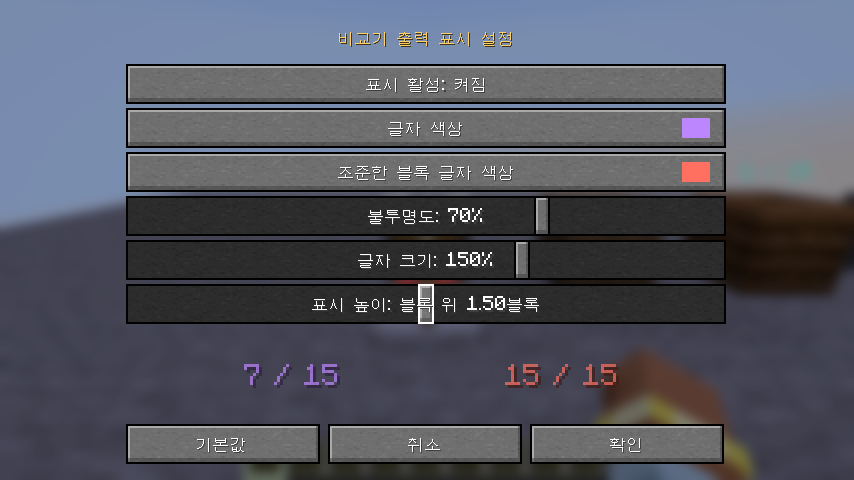
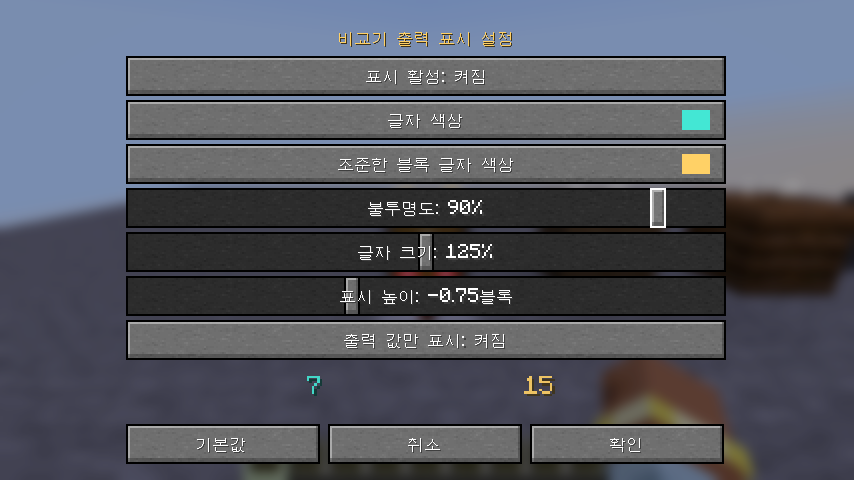
Add negative comparator height and value-only displays in 0.7.0

Changed region(s): [[0.1218, 0.0938, 0.8525, 0.8438]]

diff --git a/src/gametest/java/io/github/ruok0214/comparatorinspector/InspectorGameTest.java b/src/gametest/java/io/github/ruok0214/comparatorinspector/InspectorGameTest.java
@@ -69,7 +69,7 @@ public final class InspectorGameTest implements FabricClientGameTest {
             check(!migrated.targeted() && migrated.nearby() && !migrated.comparators() && migrated.radius()==17 && migrated.world().equals(DisplayStyle.WORLD) && migrated.hud().equals(DisplayStyle.HUD),"Legacy settings retain detection and receive display defaults with comparator output off");
             var previous=InspectorConfig.fromJson("{\"world\":{\"enabled\":false,\"color\":444,\"secondaryColor\":555,\"opacity\":65,\"scalePercent\":125}}");
             check(previous.world().heightHundredths()==18 && !previous.world().enabled() && previous.world().color()==444 && previous.world().opacity()==65 && previous.world().scalePercent()==125,"0.2 appearance keeps its values and gets original label height");
-            check(DisplayStyle.WORLD.height(-1).height()==0 && DisplayStyle.WORLD.height(400).height()==3,"Height clamps to supported range");
+            check(InspectorConfig.DEFAULT.appearance(DisplayTarget.WORLD,DisplayStyle.WORLD.height(-1)).world().height()==0 && DisplayStyle.WORLD.height(400).height()==3,"General block height clamps to supported range");
         });
         menu(c);
         c.clickScreenButton(InspectorClient.tr("nearby",net.minecraft.network.chat.Component.translatable("options.off")).getString());
@@ -181,7 +181,7 @@ public final class InspectorGameTest implements FabricClientGameTest {
         var point=c.computeOnClient(mc -> {
             var slider=mc.gui.screen().children().stream().filter(AppearanceScreen.HeightSlider.class::isInstance)
                     .map(AppearanceScreen.HeightSlider.class::cast).findFirst().orElseThrow();
-            return new double[]{(slider.getX()+slider.getWidth()/2.0)*mc.getWindow().getScreenWidth()/mc.gui.screen().width,
+            return new double[]{(slider.getX()+4+.75*(slider.getWidth()-8))*mc.getWindow().getScreenWidth()/mc.gui.screen().width,
                     (slider.getY()+10.0)*mc.getWindow().getScreenHeight()/mc.gui.screen().height};
         });
         c.getInput().setCursorPos(point[0],point[1]); c.getInput().pressMouse(GLFW.GLFW_MOUSE_BUTTON_LEFT); c.waitTick();
@@ -249,6 +249,73 @@ public final class InspectorGameTest implements FabricClientGameTest {
         c.runOnClient(mc -> check(InspectorClient.extractLabels().isEmpty() && InspectorClient.hudDisplay()!=null,"Comparator info panel works with its above-block display hidden"));
         c.runOnClient(mc -> { InspectorConfig.DEFAULT.save(); InspectorClient.configure(InspectorConfig.DEFAULT); });
         aim(c,CHEST); value(c,CHEST,15);
+    }
+    private static void negativeHeightAndValueOnly(ClientGameTestContext c) {
+        var pos=CHEST.south();
+        c.runOnClient(mc -> {
+            var legacy=InspectorConfig.fromJson("{\"world\":{\"heightHundredths\":75},\"comparatorStyle\":{\"heightHundredths\":125}}");
+            check(legacy.world().heightHundredths()==75 && legacy.comparatorStyle().heightHundredths()==125
+                    && !legacy.world().valueOnly() && !legacy.comparatorStyle().valueOnly() && !legacy.hud().valueOnly(),"Existing settings keep their height and fraction format");
+            var bounds=InspectorConfig.fromJson("{\"world\":{\"heightHundredths\":-100},\"comparatorStyle\":{\"heightHundredths\":-400,\"valueOnly\":true}}");
+            check(bounds.world().heightHundredths()==0 && bounds.comparatorStyle().heightHundredths()==-300 && bounds.comparatorStyle().valueOnly(),"Negative heights are limited to comparators and clamp at -3");
+        });
+        var initial=InspectorConfig.DEFAULT.comparatorOutputs(true).detection(true,true,8);
+        c.runOnClient(mc -> { check(initial.save(),"Save fraction format defaults"); InspectorClient.configure(initial); });
+        aim(c,CHEST); value(c,pos,15);
+        menu(c); c.clickScreenButton("comparator_inspector.comparator.title");
+        c.getInput().resizeWindow(854,480); c.waitTicks(3);
+        var point=c.computeOnClient(mc -> {
+            var slider=mc.gui.screen().children().stream().filter(AppearanceScreen.HeightSlider.class::isInstance)
+                    .map(AppearanceScreen.HeightSlider.class::cast).findFirst().orElseThrow();
+            return new double[]{(slider.getX()+4+.375*(slider.getWidth()-8))*mc.getWindow().getScreenWidth()/mc.gui.screen().width,
+                    (slider.getY()+10.0)*mc.getWindow().getScreenHeight()/mc.gui.screen().height};
+        });
+        c.getInput().setCursorPos(point[0],point[1]); c.getInput().pressMouse(GLFW.GLFW_MOUSE_BUTTON_LEFT); c.waitTick();
+        int selectedHeight=c.computeOnClient(mc -> ((AppearanceScreen)mc.gui.screen()).draft().heightHundredths());
+        check(selectedHeight>=-77 && selectedHeight<=-73,"Comparator slider selects a negative offset near -0.75");
+        c.clickScreenButton(InspectorClient.tr("appearance.value_only",net.minecraft.network.chat.Component.translatable("options.off")).getString());
+        color(c,"color.primary","#43E7D4","#FFFFFF"); styleSlider(c,true,.5); styleSlider(c,false,.9);
+        c.runOnClient(mc -> check(((AppearanceScreen)mc.gui.screen()).draft().heightHundredths()==selectedHeight && ((AppearanceScreen)mc.gui.screen()).draft().valueOnly(),"Color and size changes preserve negative height and value-only format"));
+        c.getInput().setCursorPos(20,20); c.takeScreenshot("negative-height-value-only-settings-ko");
+        c.clickScreenButton("comparator_inspector.confirm"); c.clickScreenButton("gui.cancel");
+        c.getInput().resizeWindow(1000,700); c.waitTicks(3); value(c,CHEST,15); value(c,pos,15);
+        var saved=c.computeOnClient(mc -> InspectorClient.config());
+        c.runOnClient(mc -> {
+            check(InspectorConfig.load().equals(saved) && saved.comparatorStyle().heightHundredths()==selectedHeight && saved.comparatorStyle().valueOnly(),"Negative height and value-only format save immediately and survive parent Cancel");
+            checkLabel(pos,saved.comparatorStyle(),false);
+            check(label(pos).text().equals("15") && label(CHEST).text().equals("15 / 15") && InspectorClient.hudDisplay().text().getString().contains("15 / 15"),"Comparator numeric format is independent of general blocks and info panel");
+        });
+        c.takeScreenshot("lowered-comparator-value-only-ko");
+        menu(c); c.clickScreenButton("comparator_inspector.world.title");
+        c.clickScreenButton(InspectorClient.tr("appearance.value_only",net.minecraft.network.chat.Component.translatable("options.off")).getString());
+        c.clickScreenButton("comparator_inspector.confirm"); c.clickScreenButton("gui.cancel");
+        value(c,CHEST,15); value(c,BARREL,0);
+        c.runOnClient(mc -> check(label(CHEST).text().equals("15") && label(BARREL).text().equals("0") && InspectorClient.config().comparatorStyle().equals(saved.comparatorStyle()),"General block format handles full and zero values without changing comparator settings"));
+        menu(c); c.clickScreenButton("comparator_inspector.hud.title");
+        c.clickScreenButton(InspectorClient.tr("appearance.value_only",net.minecraft.network.chat.Component.translatable("options.off")).getString());
+        c.getInput().resizeWindow(854,480); c.getInput().setCursorPos(20,20); c.waitTicks(3); c.takeScreenshot("value-only-hud-settings-small-ko");
+        c.clickScreenButton("comparator_inspector.confirm"); c.clickScreenButton("gui.cancel");
+        value(c,CHEST,15);
+        c.runOnClient(mc -> check(InspectorClient.hudDisplay().text().getString().endsWith(" · 15"),"Info panel keeps the block name and displays only the output value"));
+        menu(c); c.clickScreenButton("comparator_inspector.comparator.title"); c.clickScreenButton("comparator_inspector.reset");
+        c.getInput().pressKey(GLFW.GLFW_KEY_ESCAPE); c.clickScreenButton("gui.cancel");
+        c.runOnClient(mc -> check(InspectorConfig.load().comparatorStyle().equals(saved.comparatorStyle()),"Cancel preserves negative height and numeric format"));
+        var allNumeric=c.computeOnClient(mc -> InspectorClient.config());
+        for (int height:new int[]{-300,0,300}) {
+            c.runOnClient(mc -> InspectorClient.configure(allNumeric.appearance(DisplayTarget.COMPARATOR,saved.comparatorStyle().height(height))));
+            value(c,pos,15);
+            c.runOnClient(mc -> { checkLabel(pos,saved.comparatorStyle().height(height),false); check(label(pos).text().equals("15"),"Value-only format survives height edits"); });
+        }
+        c.runOnClient(mc -> InspectorClient.configure(allNumeric));
+        menu(c); c.clickScreenButton("comparator_inspector.comparator.title"); c.clickScreenButton("comparator_inspector.reset");
+        c.clickScreenButton("comparator_inspector.confirm"); c.clickScreenButton("gui.cancel");
+        value(c,pos,15);
+        c.runOnClient(mc -> {
+            check(InspectorConfig.load().comparatorStyle().equals(DisplayStyle.COMPARATOR) && label(pos).text().equals("15 / 15"),"Comparator defaults restore height and fraction format");
+            check(InspectorClient.config().world().valueOnly() && InspectorClient.config().hud().valueOnly(),"Comparator defaults preserve other display formats");
+            InspectorConfig.DEFAULT.save(); InspectorClient.configure(InspectorConfig.DEFAULT);
+        });
+        c.getInput().resizeWindow(1000,700); value(c,CHEST,15);
     }
     @Override public void runTest(ClientGameTestContext c) {
         c.getInput().resizeWindow(1000,700);
@@ -385,6 +452,7 @@ public final class InspectorGameTest implements FabricClientGameTest {
             aim(c,CHEST); value(c,CHEST,15);
             appearances(c);
             comparatorAppearances(c);
+            negativeHeightAndValueOnly(c);
             // Covering the chest changes the actual vanilla comparator value.
             world.getServer().runCommand("setblock 0 82 0 minecraft:stone"); value(c,CHEST,0);
             world.getServer().runCommand("setblock 0 82 0 minecraft:air"); value(c,CHEST,15);

diff --git a/src/client/java/io/github/ruok0214/comparatorinspector/client/AppearanceScreen.java b/src/client/java/io/github/ruok0214/comparatorinspector/client/AppearanceScreen.java
@@ -17,8 +17,8 @@ public final class AppearanceScreen extends Screen {
         draft=parent.draft().style(target);
     }
     public DisplayStyle draft() { return draft; }
-    private int top() { return world ? Math.max(32,height/2-90) : Math.max(38,height/2-80); }
-    private int rowStep() { return world ? 22 : 25; }
+    private int top() { return world ? Math.max(28,height/2-98) : Math.max(32,height/2-90); }
+    private int rowStep() { return 22; }
     @Override protected void init() {
         int w=Math.min(300,width-24), x=(width-w)/2, y=top(), step=rowStep();
         addRenderableWidget(Button.builder(enabledLabel(),b -> { draft=draft.enabled(!draft.enabled()); b.setMessage(enabledLabel()); }).bounds(x,y,w,20).build());
@@ -27,6 +27,8 @@ public final class AppearanceScreen extends Screen {
         addRenderableWidget(new StyleSlider(x,y+step*3,w,false));
         addRenderableWidget(new StyleSlider(x,y+step*4,w,true));
         if(world) addRenderableWidget(new HeightSlider(x,y+step*5,w));
+        addRenderableWidget(Button.builder(valueOnlyLabel(),b -> { draft=draft.valueOnly(!draft.valueOnly()); b.setMessage(valueOnlyLabel()); })
+                .bounds(x,y+step*(world ? 6 : 5),w,20).tooltip(Tooltip.create(tr("appearance.value_only_hint"))).build());
         int bw=(w-8)/3;
         addRenderableWidget(Button.builder(tr("reset"),b -> { draft=target.defaults(); rebuildWidgets(); }).bounds(x,height-28,bw,20).build());
         addRenderableWidget(Button.builder(Component.translatable("gui.cancel"),b -> onClose()).bounds(x+bw+4,height-28,bw,20).build());
@@ -36,19 +38,21 @@ public final class AppearanceScreen extends Screen {
     }
     public final class HeightSlider extends AbstractSliderButton {
         HeightSlider(int x,int y,int w) {
-            super(x,y,w,20,Component.empty(),draft.heightHundredths()/(double)DisplayStyle.MAX_HEIGHT);
-            setTooltip(Tooltip.create(tr("appearance.height_hint"))); updateMessage();
+            super(x,y,w,20,Component.empty(),(draft.heightHundredths()-target.minHeight())/(double)(DisplayStyle.MAX_HEIGHT-target.minHeight()));
+            setTooltip(Tooltip.create(tr(target == DisplayTarget.COMPARATOR ? "appearance.comparator_height_hint" : "appearance.height_hint"))); updateMessage();
         }
+        private int selectedHeight() { return target.minHeight()+(int)Math.round(value*(DisplayStyle.MAX_HEIGHT-target.minHeight())); }
         @Override protected void updateMessage() {
-            setMessage(tr("appearance.height",String.format(java.util.Locale.ROOT,"%.2f",Math.round(value*DisplayStyle.MAX_HEIGHT)/100.0)));
+            setMessage(tr("appearance.height",String.format(java.util.Locale.ROOT,"%.2f",selectedHeight()/100.0)));
         }
-        @Override protected void applyValue() { draft=draft.height((int)Math.round(value*DisplayStyle.MAX_HEIGHT)); }
+        @Override protected void applyValue() { draft=draft.height(selectedHeight()); }
     }
     private Component enabledLabel() { return tr("appearance.enabled", Component.translatable(draft.enabled() ? "options.on" : "options.off")); }
+    private Component valueOnlyLabel() { return tr("appearance.value_only", Component.translatable(draft.valueOnly() ? "options.on" : "options.off")); }
     private void color(boolean secondary) {
         var defaults=target.defaults();
         minecraft.gui.setScreen(new ColorScreen(this,secondary ? draft.secondaryColor() : draft.color(),
-                secondary ? defaults.secondaryColor() : defaults.color(),value ->
+                secondary ? defaults.secondaryColor() : defaults.color(),draft.outputText(7),value ->
                 draft=secondary ? draft.colors(draft.color(),value) : draft.colors(value,draft.secondaryColor())));
     }
     public final class StyleSlider extends AbstractSliderButton {
@@ -62,7 +66,7 @@ public final class AppearanceScreen extends Screen {
     }
     @Override public void extractRenderState(GuiGraphicsExtractor g,int mx,int my,float dt) {
         super.extractRenderState(g,mx,my,dt); g.centeredText(font,title,width/2,15,0xFFFFD166);
-        int w=Math.min(300,width-24), x=(width-w)/2, y=top(), step=rowStep(), previewY=y+(world ? 150 : 140);
+        int w=Math.min(300,width-24), x=(width-w)/2, y=top(), step=rowStep(), previewY=y+(world ? 160 : 144);
         g.fill(x+w-22,y+step+5,x+w-8,y+step+15,0xFF000000|draft.color());
         g.fill(x+w-22,y+step*2+5,x+w-8,y+step*2+15,0xFF000000|draft.secondaryColor());
         if (failed) g.centeredText(font,tr("save_failed"),width/2,previewY,0xFFFF8070);
@@ -70,10 +74,10 @@ public final class AppearanceScreen extends Screen {
         else {
             g.pose().pushMatrix(); g.pose().translate(width/2f,previewY); g.pose().scale(draft.scale(),draft.scale());
             if(world) {
-                g.centeredText(font,Component.literal("7 / 15"),-45,0,draft.argb(false));
-                g.centeredText(font,Component.literal("15 / 15"),45,0,draft.argb(true));
+                g.centeredText(font,Component.literal(draft.outputText(7)),-45,0,draft.argb(false));
+                g.centeredText(font,Component.literal(draft.outputText(15)),45,0,draft.argb(true));
             } else {
-                var text=tr("signal",7); int tw=font.width(text);
+                var text=draft.valueOnly() ? Component.literal("7") : tr("signal",7); int tw=font.width(text);
                 g.fill(-tw/2-6,-4,tw/2+6,13,draft.backgroundArgb());
                 g.centeredText(font,text,0,0,draft.argb(false));
             }

diff --git a/src/client/java/io/github/ruok0214/comparatorinspector/client/DisplayStyle.java b/src/client/java/io/github/ruok0214/comparatorinspector/client/DisplayStyle.java
@@ -1,8 +1,9 @@
 package io.github.ruok0214.comparatorinspector.client;
 
 /** Independent appearance for one display surface. Colors are RGB, opacity is percent. */
-public record DisplayStyle(boolean enabled, int color, int secondaryColor, int opacity, int scalePercent, int heightHundredths) {
+public record DisplayStyle(boolean enabled, int color, int secondaryColor, int opacity, int scalePercent, int heightHundredths, boolean valueOnly) {
     public static final int DEFAULT_HEIGHT = 18;
+    public static final int MIN_HEIGHT = -300;
     public static final int MAX_HEIGHT = 300;
     public static final DisplayStyle WORLD = new DisplayStyle(true, 0xFFFFFF, 0xFFD166, 100, 100);
     public static final DisplayStyle COMPARATOR = new DisplayStyle(true, 0xFFFFFF, 0xFFD166, 100, 100);
@@ -10,7 +11,10 @@ public record DisplayStyle(boolean enabled, int color, int secondaryColor, int o
     public DisplayStyle {
         color &= 0xFFFFFF; secondaryColor &= 0xFFFFFF;
         opacity = Math.clamp(opacity, 0, 100); scalePercent = Math.clamp(scalePercent, 50, 200);
-        heightHundredths = Math.clamp(heightHundredths, 0, MAX_HEIGHT);
+        heightHundredths = Math.clamp(heightHundredths, MIN_HEIGHT, MAX_HEIGHT);
+    }
+    public DisplayStyle(boolean enabled, int color, int secondaryColor, int opacity, int scalePercent, int heightHundredths) {
+        this(enabled,color,secondaryColor,opacity,scalePercent,heightHundredths,false);
     }
     public DisplayStyle(boolean enabled, int color, int secondaryColor, int opacity, int scalePercent) {
         this(enabled,color,secondaryColor,opacity,scalePercent,DEFAULT_HEIGHT);
@@ -21,9 +25,11 @@ public record DisplayStyle(boolean enabled, int color, int secondaryColor, int o
     public int backgroundArgb() { return (Math.round(opacity * 2.04f) << 24) | secondaryColor; }
     public float scale() { return scalePercent / 100f; }
     public boolean visible() { return enabled && opacity > 0; }
-    public DisplayStyle enabled(boolean value) { return new DisplayStyle(value,color,secondaryColor,opacity,scalePercent,heightHundredths); }
-    public DisplayStyle colors(int primary, int secondary) { return new DisplayStyle(enabled,primary,secondary,opacity,scalePercent,heightHundredths); }
-    public DisplayStyle opacity(int value) { return new DisplayStyle(enabled,color,secondaryColor,value,scalePercent,heightHundredths); }
-    public DisplayStyle size(int value) { return new DisplayStyle(enabled,color,secondaryColor,opacity,value,heightHundredths); }
-    public DisplayStyle height(int value) { return new DisplayStyle(enabled,color,secondaryColor,opacity,scalePercent,value); }
+    public String outputText(int value) { return valueOnly ? Integer.toString(value) : value + " / 15"; }
+    public DisplayStyle enabled(boolean value) { return new DisplayStyle(value,color,secondaryColor,opacity,scalePercent,heightHundredths,valueOnly); }
+    public DisplayStyle colors(int primary, int secondary) { return new DisplayStyle(enabled,primary,secondary,opacity,scalePercent,heightHundredths,valueOnly); }
+    public DisplayStyle opacity(int value) { return new DisplayStyle(enabled,color,secondaryColor,value,scalePercent,heightHundredths,valueOnly); }
+    public DisplayStyle size(int value) { return new DisplayStyle(enabled,color,secondaryColor,opacity,value,heightHundredths,valueOnly); }
+    public DisplayStyle height(int value) { return new DisplayStyle(enabled,color,secondaryColor,opacity,scalePercent,value,valueOnly); }
+    public DisplayStyle valueOnly(boolean value) { return new DisplayStyle(enabled,color,secondaryColor,opacity,scalePercent,heightHundredths,value); }
 }

diff --git a/src/client/java/io/github/ruok0214/comparatorinspector/client/InspectorConfig.java b/src/client/java/io/github/ruok0214/comparatorinspector/client/InspectorConfig.java
@@ -12,8 +12,10 @@ public record InspectorConfig(boolean targeted, boolean nearby, int radius, bool
     public InspectorConfig {
         radius = Math.clamp(radius, 1, 32);
         if (world == null) world = DisplayStyle.WORLD;
+        world = DisplayTarget.WORLD.normalize(world);
         if (comparatorStyle == null) comparatorStyle = world;
         if (hud == null) hud = DisplayStyle.HUD;
+        hud = DisplayTarget.HUD.normalize(hud);
     }
     public InspectorConfig(boolean targeted, boolean nearby, int radius) { this(targeted,nearby,radius,false,DisplayStyle.WORLD,DisplayStyle.COMPARATOR,DisplayStyle.HUD); }
     public InspectorConfig detection(boolean targeted, boolean nearby, int radius) { return new InspectorConfig(targeted,nearby,radius,comparators,world,comparatorStyle,hud); }
@@ -29,7 +31,7 @@ public record InspectorConfig(boolean targeted, boolean nearby, int radius, bool
     }
     public static InspectorConfig fromJson(String text) {
         var json = JsonParser.parseString(text).getAsJsonObject();
-        var world = style(json,"world",DisplayStyle.WORLD);
+        var world = DisplayTarget.WORLD.normalize(style(json,"world",DisplayStyle.WORLD));
         return new InspectorConfig(json.has("targeted") ? json.get("targeted").getAsBoolean() : true,
                 json.has("nearby") && json.get("nearby").getAsBoolean(), json.has("radius") ? json.get("radius").getAsInt() : 8,
                 json.has("comparators") && json.get("comparators").getAsBoolean(),
@@ -41,7 +43,8 @@ public record InspectorConfig(boolean targeted, boolean nearby, int radius, bool
         return new DisplayStyle(s.has("enabled") ? s.get("enabled").getAsBoolean() : fallback.enabled(),
                 number(s,"color",fallback.color()),number(s,"secondaryColor",fallback.secondaryColor()),
                 number(s,"opacity",fallback.opacity()),number(s,"scalePercent",fallback.scalePercent()),
-                number(s,"heightHundredths",fallback.heightHundredths()));
+                number(s,"heightHundredths",fallback.heightHundredths()),
+                s.has("valueOnly") ? s.get("valueOnly").getAsBoolean() : fallback.valueOnly());
     }
     private static int number(JsonObject json,String key,int fallback) { return json.has(key) ? json.get(key).getAsInt() : fallback; }
     public static InspectorConfig load() {

diff --git a/src/client/java/io/github/ruok0214/comparatorinspector/client/InspectorClient.java b/src/client/java/io/github/ruok0214/comparatorinspector/client/InspectorClient.java
@@ -132,8 +132,9 @@ public final class InspectorClient implements ClientModInitializer {
         var r = readings.get(pos);
         return r != null && mc.level.hasChunkAt(pos) && r.block().equals(BuiltInRegistries.BLOCK.getKey(mc.level.getBlockState(pos).getBlock())) ? r : null;
     }
-    public static Component signalText(InspectorPayloads.Reading r) {
-        return r.uniform() ? tr("signal", r.north()) : tr("directional", r.north(), r.east(), r.south(), r.west());
+    public static Component signalText(InspectorPayloads.Reading r, DisplayStyle style) {
+        return r.uniform() ? (style.valueOnly() ? Component.literal(Integer.toString(r.north())) : tr("signal", r.north()))
+                : tr("directional", r.north(), r.east(), r.south(), r.west());
     }
     public static List<Label> extractLabels() {
         var mc = Minecraft.getInstance();
@@ -146,7 +147,7 @@ public final class InspectorClient implements ClientModInitializer {
             var state = mc.level.getBlockState(r.pos());
             var style = worldStyle(state);
             if (!style.visible() || (!aimed && (!nearbySupported(state) || r.pos().distToCenterSqr(mc.player.position()) > (double) config.radius()*config.radius()))) continue;
-            String text = r.uniform() ? r.north() + " / 15" : signalText(r).getString();
+            String text = r.uniform() ? style.outputText(r.north()) : signalText(r,style).getString();
             result.add(new Label(Vec3.atLowerCornerWithOffset(r.pos(), .5, 1 + style.height(), .5), text, style.argb(aimed), .32f * style.scale()));
         }
         return List.copyOf(result);
@@ -160,7 +161,7 @@ public final class InspectorClient implements ClientModInitializer {
         else if (target != null) {
             var r = validReading(target);
             text = mc.level.getBlockState(target).getBlock().getName().copy().append(" · ")
-                    .append(r == null ? tr("waiting") : signalText(r));
+                    .append(r == null ? tr("waiting") : signalText(r,config.hud()));
         } else if (nearbyEnabled() && truncated) text = tr("limit", InspectorPayloads.MAX_BLOCKS);
         return text == null ? null : new HudDisplay(text,config.hud().argb(false),config.hud().backgroundArgb(),config.hud().scale());
     }

diff --git a/src/client/java/io/github/ruok0214/comparatorinspector/client/ColorScreen.java b/src/client/java/io/github/ruok0214/comparatorinspector/client/ColorScreen.java
@@ -12,11 +12,12 @@ public final class ColorScreen extends Screen {
     private final Screen parent;
     private final IntConsumer accept;
     private final int defaultColor;
+    private final String sampleText;
     private int rgb;
     private EditBox hex;
     private Button done;
-    public ColorScreen(Screen parent,int rgb,int defaultColor,IntConsumer accept) {
-        super(tr("color.title")); this.parent=parent; this.rgb=rgb; this.defaultColor=defaultColor; this.accept=accept;
+    public ColorScreen(Screen parent,int rgb,int defaultColor,String sampleText,IntConsumer accept) {
+        super(tr("color.title")); this.parent=parent; this.rgb=rgb; this.defaultColor=defaultColor; this.sampleText=sampleText; this.accept=accept;
     }
     @Override protected void init() {
         int w=Math.min(300,width-24),x=(width-w)/2,y=Math.max(38,height/2-80);
@@ -59,7 +60,7 @@ public final class ColorScreen extends Screen {
     @Override public void extractRenderState(GuiGraphicsExtractor g,int mx,int my,float dt) {
         super.extractRenderState(g,mx,my,dt); g.centeredText(font,title,width/2,15,0xFFFFD166);
         int y=Math.max(38,height/2-80)+140;
-        g.centeredText(font,Component.literal(String.format("#%06X   7 / 15",rgb)),width/2,y,0xFF000000|rgb);
+        g.centeredText(font,Component.literal(String.format("#%06X   %s",rgb,sampleText)),width/2,y,0xFF000000|rgb);
         if(!done.active) g.centeredText(font,tr("color.invalid"),width/2,y+14,0xFFFF8070);
     }
     @Override public boolean isPauseScreen() { return false; }

diff --git a/src/client/java/io/github/ruok0214/comparatorinspector/client/DisplayTarget.java b/src/client/java/io/github/ruok0214/comparatorinspector/client/DisplayTarget.java
@@ -15,4 +15,8 @@ public enum DisplayTarget {
     public String titleKey() { return titleKey; }
     public DisplayStyle defaults() { return defaults; }
     public boolean inWorld() { return inWorld; }
+    public int minHeight() { return this == COMPARATOR ? DisplayStyle.MIN_HEIGHT : 0; }
+    public DisplayStyle normalize(DisplayStyle style) {
+        return style.height(Math.clamp(style.heightHundredths(),minHeight(),DisplayStyle.MAX_HEIGHT));
+    }
 }

diff --git a/README.md b/README.md
@@ -16,7 +16,7 @@
 
 - Minecraft Java Edition **26.2**, Java **25 이상**
 - Fabric Loader **0.19.5 이상**, Fabric API **0.160.0+26.2 이상**
-- `comparator-inspector-0.6.0.jar`를 Fabric API와 함께 `mods` 폴더에 넣습니다. 이전 Comparator Inspector JAR는 제거하고 교체하세요.
+- `comparator-inspector-0.7.0.jar`를 Fabric API와 함께 `mods` 폴더에 넣습니다. 이전 Comparator Inspector JAR는 제거하고 교체하세요.
 - 싱글플레이는 게임에 설치하면 됩니다. 멀티플레이는 **서버와 클라이언트 양쪽**에 설치해야 합니다.
 - Mod Menu는 선택 사항입니다. 설치하면 모드 목록의 설정 버튼으로도 설정 창을 열 수 있습니다.
 - Mod Menu 목록에 전용 아이콘과 한국어·영어 요약/설명이 표시됩니다. 기능, 사용법, 서버 설치 조건을 확인하고 소스·이슈·릴리스 페이지로 이동할 수 있습니다.
@@ -56,14 +56,19 @@
 | 추가 색상 | 조준한 블록의 숫자 색 | 조준한 비교기의 숫자 색 | 정보창 배경 색 |
 | 불투명도 | 0~100% | 0~100% | 0~100%, 글자와 배경에 함께 적용 |
 | 글자 크기 | 50~200% | 50~200% | 50~200% |
-| 표시 높이 | 블록 위 0.00~3.00블록 | 비교기 칸 위 0.00~3.00블록 | 해당 없음 |
+| 표시 높이 | 블록 위 0.00~3.00블록 | 비교기 칸 기준 -3.00~3.00블록 | 해당 없음 |
+| 출력 값만 표시 | `15 / 15` 대신 `15` | `15 / 15` 대신 `15` | 이름을 유지하고 출력 부분을 `15`로 표시 |
 
 **표시 높이**는 일반 블록과 비교기 각각의 표시 설정 창에서 조절합니다.
-블록이 차지하는 한 칸의 윗면을 기준으로 0.01블록 단위로 조절하며, 기본값은 기존 위치인 **0.18블록**입니다.
+블록이 차지하는 한 칸의 윗면을 기준으로 소수 둘째 자리까지 표시하며, 기본값은 기존 위치인 **0.18블록**입니다.
+비교기에는 **음수 높이**도 사용할 수 있습니다. 예를 들어 **-0.75**는 한 칸의 윗면보다 0.75블록 아래에 표시합니다.
 같은 종류의 조준 표시와 주변 상시 표시는 같은 높이를 사용합니다. 케이크·비교기 등 낮은 모양의 블록도 한 칸의 윗면을 기준으로 합니다.
 표시 설정 창에서 **확인**을 누르면 높이를 포함한 해당 표시 설정이 즉시 저장됩니다. 상위 창에서 다시 저장하지 않아도 됩니다.
 0.1.0/0.2.0 설정의 색상·활성·크기 등은 유지하고 새 높이에는 0.18블록을 적용합니다.
 0.5.0 이전 설정에 비교기 전용 외형이 없으면 기존 블록 위 외형을 이어받습니다. 이후 일반 블록과 비교기의 외형은 따로 저장됩니다.
+
+**출력 값만 표시**는 일반 블록·비교기·정보창에서 각각 켜고 끕니다. 기본값은 꺼짐이며, 켜면 `0 / 15`는 `0`, `15 / 15`는 `15`로 표시합니다.
+방향마다 신호가 다른 블록은 북·동·남·서 값을 유지합니다. 기존 설정의 높이와 표시 형식은 바꾸지 않습니다.
 
 색상은 **팔레트, 빨강·초록·파랑 슬라이더, `#RRGGBB` 색상 코드**로 지정합니다.
 모든 설정 화면에 **기본값 · 취소 · 확인** 버튼이 있습니다.
@@ -137,3 +142,5 @@ MIT 라이선스.
 거리 제한, 표시 높이·색상·활성 적용, 비교기 교체, 이전 설정 호환과 작은 화면 배치를 검증합니다.
 0.6.0 테스트는 일반 블록과 비교기의 색상·크기·불투명도·높이 분리, 전용 창의 즉시 저장·취소·기본값,
 표시별 활성 분리, 조준 색상, 기존 설정 외형 보존과 설정 재로딩을 검증합니다.
+0.7.0 테스트는 음수 높이의 선택·저장·실제 위치, 높이 범위 제한, 표시별 숫자 형식,
+0과 15 표시, 미리보기, 색상 변경 후 값 보존, 취소·기본값·기존 설정 호환을 검증합니다.

diff --git a/RELEASE_NOTES.md b/RELEASE_NOTES.md
@@ -1,27 +1,26 @@
-# Comparator Inspector 0.6.0
+# Comparator Inspector 0.7.0
 
-비교기 출력 표시의 외형을 일반 블록 위 표시와 따로 설정할 수 있습니다.
+비교기 표시 높이를 음수로 내리고, `/ 15` 없이 출력 값만 표시할 수 있습니다.
 
 ## 변경 사항
 
-- `/ci`에 **비교기 출력 표시 설정** 전용 창을 추가했습니다.
-- 비교기의 **글자 색상·조준 색상·크기·높이**를 일반 블록과 따로 설정합니다. **표시 활성·불투명도**도 독립적으로 조절할 수 있습니다.
-- 기존 **블록 위 표시 설정**은 **일반 블록 위 표시 설정**으로 이름을 바꿨습니다.
-- 일반 블록 위 표시를 꺼도 비교기 출력은 유지할 수 있고, 비교기 표시를 꺼도 일반 블록과 정보창은 유지할 수 있습니다.
-- 전용 창에서 **확인**을 누르면 즉시 저장됩니다. 상위 창에서 다시 저장하지 않아도 됩니다.
-- **기본값·취소·확인**은 해당 표시 설정에만 적용되며 다른 표시 설정은 유지합니다.
-- 0.5.0 이하의 설정을 불러오면 비교기 외형은 기존 블록 위 외형을 이어받습니다. 이후 각각 독립적으로 변경할 수 있습니다.
-- 한국어·영어 설정, 작은 화면 배치와 Mod Menu 설명을 갱신했습니다.
+- **비교기 출력 표시 설정**의 높이 범위를 **-3.00~3.00블록**으로 확장했습니다. 음수는 비교기가 차지하는 한 칸의 윗면보다 아래로 표시를 내립니다.
+- 일반 블록 표시 높이는 기존 **0.00~3.00블록**을 유지합니다. 기본 높이는 모두 **0.18블록**입니다.
+- 각 표시 설정에 **출력 값만 표시**를 추가했습니다. 켜면 **15 / 15 → 15**, **0 / 15 → 0**으로 표시합니다.
+- 일반 블록·비교기·정보창에서 각각 선택할 수 있습니다. 정보창은 블록 이름을 유지합니다.
+- 설정 미리보기와 색상 선택 예시에도 선택한 숫자 형식을 반영합니다.
+- 기존 설정의 높이와 형식을 유지합니다. **출력 값만 표시**의 기본값은 꺼짐입니다.
+- **확인**을 누르면 즉시 저장됩니다. 기본값·취소는 해당 설정에만 적용되며 다른 표시 설정은 유지합니다.
 
 ## 검증
 
-실제 게임에서 일반 블록과 비교기의 색상·크기·불투명도·높이 분리, 조준 색상, 개별 활성, 즉시 저장·취소·기본값, 기존 설정 호환과 작은 화면 배치를 검증했습니다. 기존 상자 신호와 비교/감산 회로 출력 테스트도 포함합니다.
+실제 게임에서 음수 높이 선택·저장·표시 위치, 높이 제한, 표시별 숫자 형식, 0과 15 표시, 저장·취소·기본값, 기존 설정 호환과 작은 화면 배치를 검증했습니다. 기존 상자 신호와 비교/감산 회로 출력 테스트도 포함합니다.
 
 ## 설치
 
 Minecraft **26.2 / Fabric**, Java **25 이상**, Fabric Loader **0.19.5 이상**, Fabric API **0.160.0+26.2 이상**이 필요합니다.
 
-이전 Comparator Inspector JAR를 제거하고 **comparator-inspector-0.6.0.jar**를 `mods` 폴더에 넣으세요.
+이전 Comparator Inspector JAR를 제거하고 **comparator-inspector-0.7.0.jar**를 `mods` 폴더에 넣으세요.
 멀티플레이는 서버와 클라이언트 모두 설치합니다. Mod Menu는 선택 사항입니다.
 설정은 **`/ci`** 또는 Mod Menu의 설정 버튼으로 엽니다.
 
